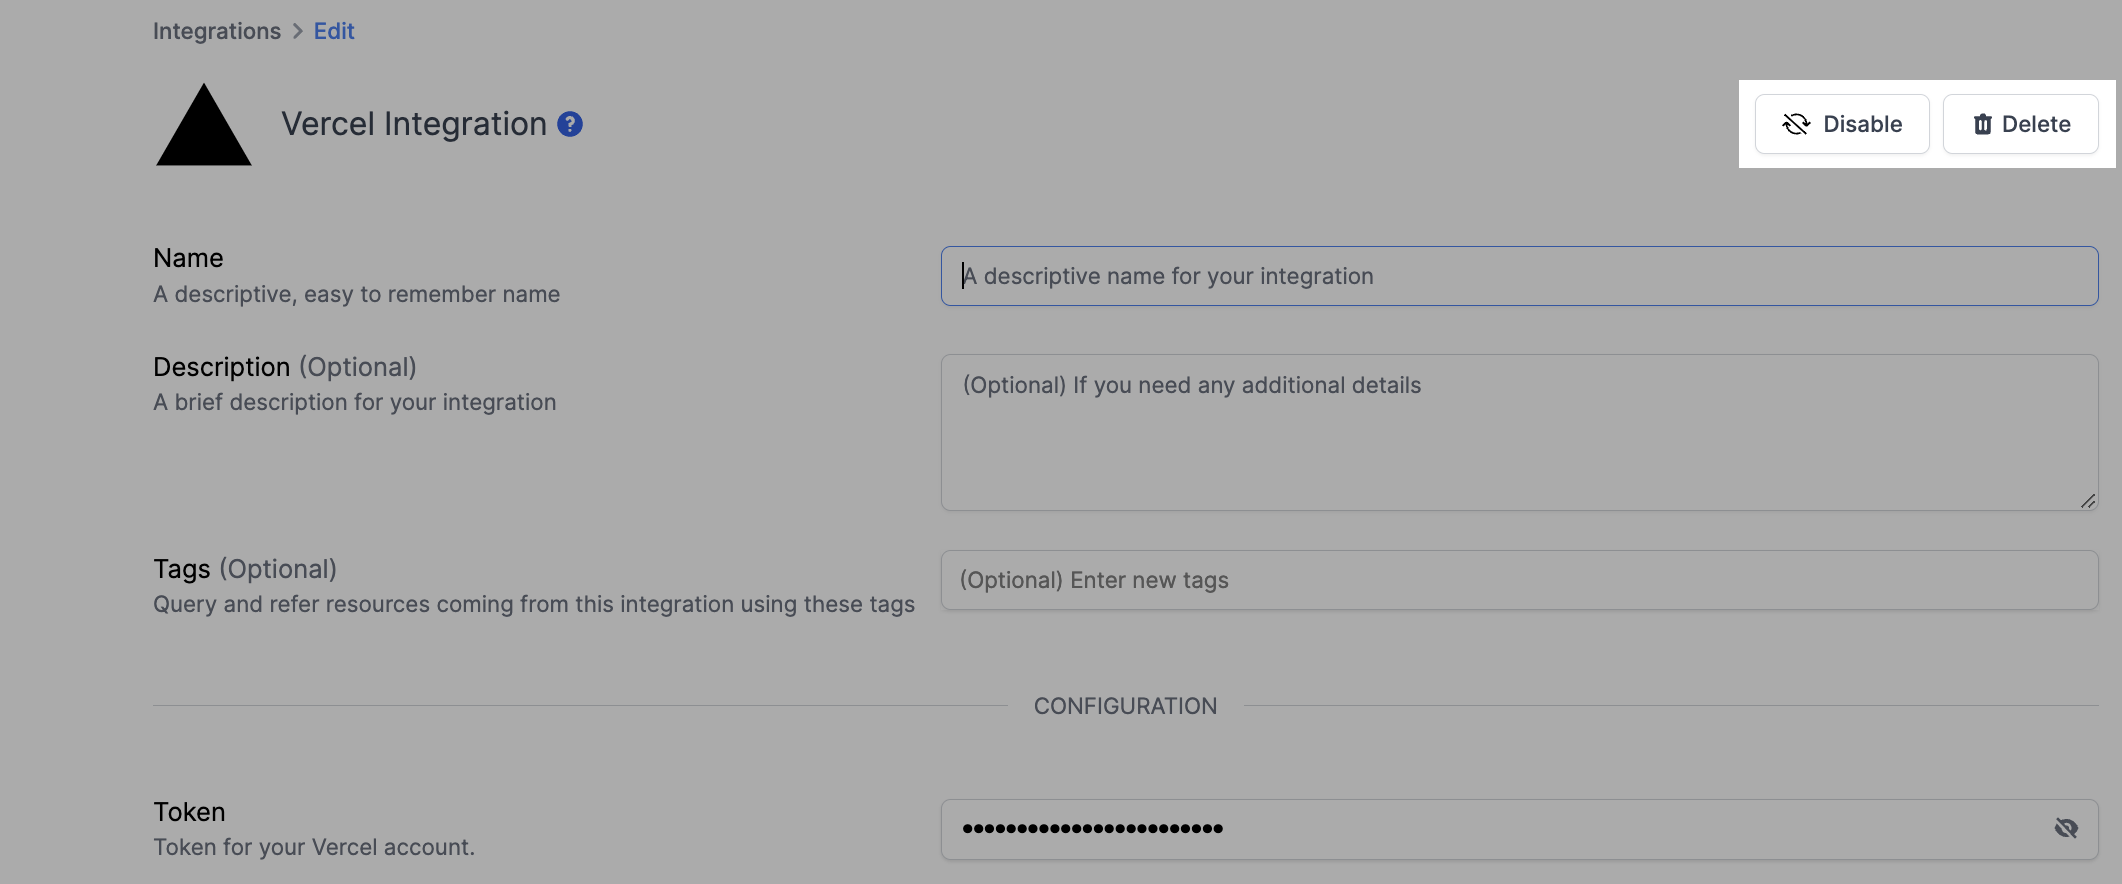
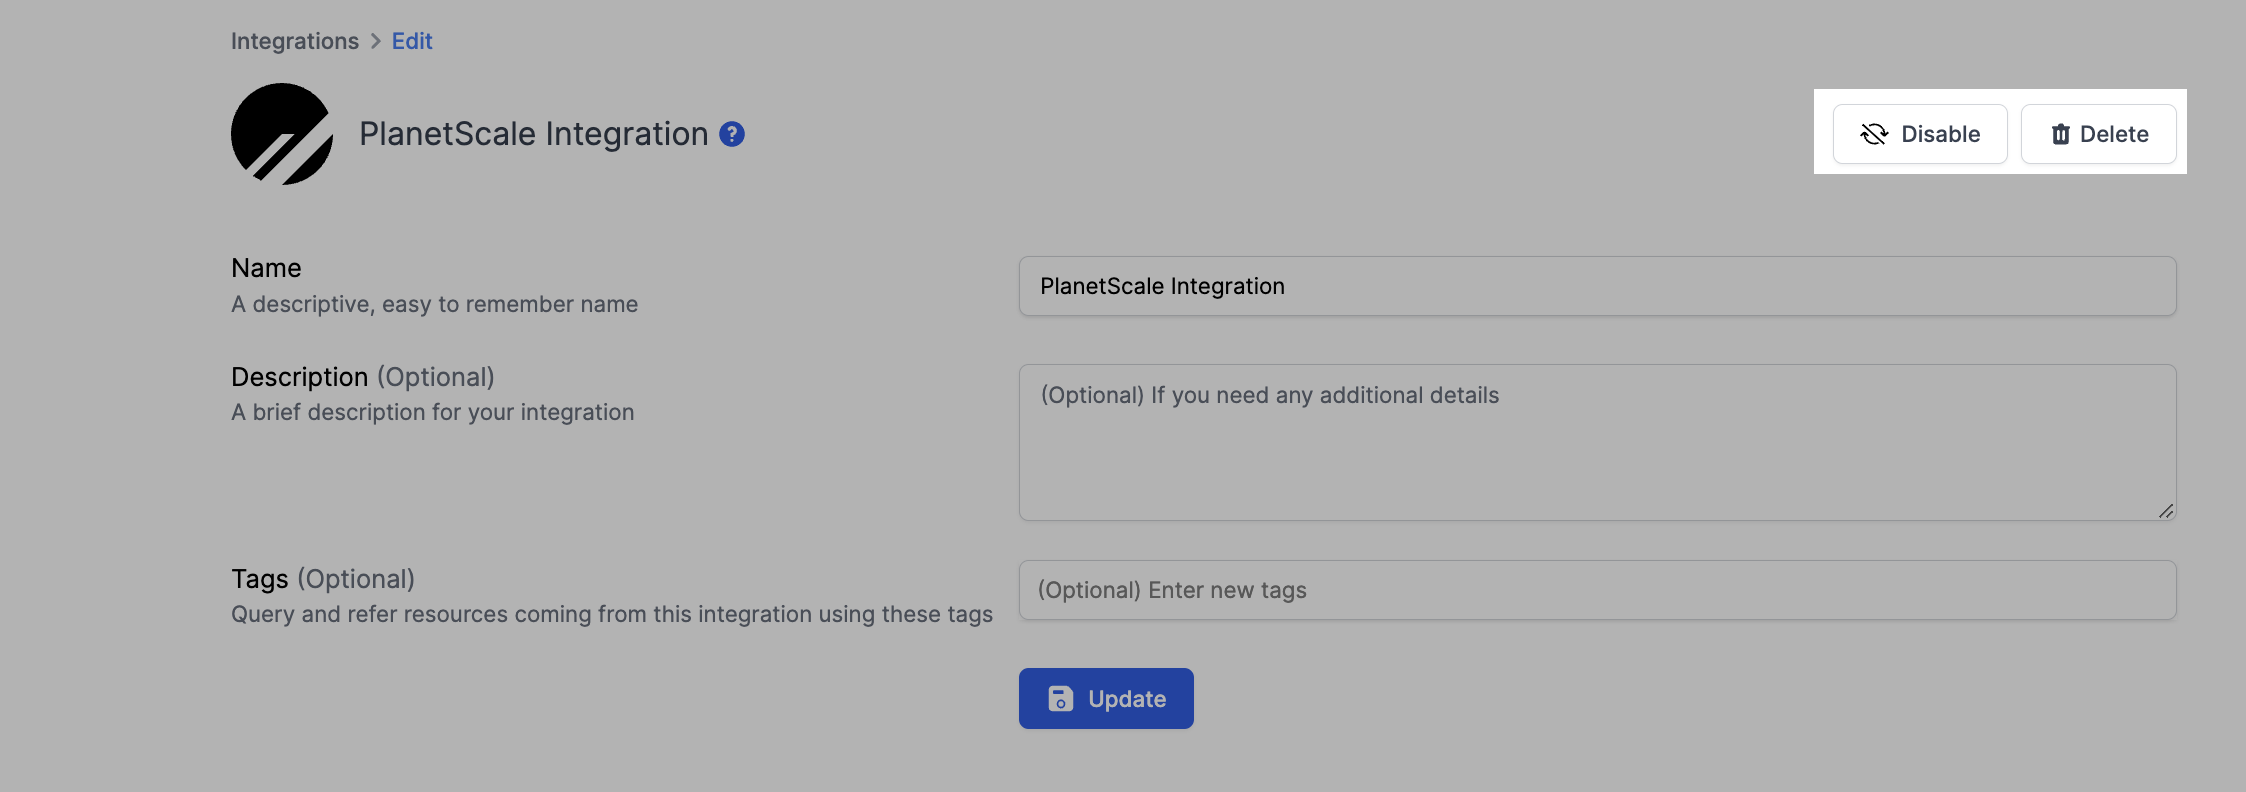
GitBook: [#194] Planetscale integration

diff --git a/integrations/planetscale-integration.md b/integrations/planetscale-integration.md
@@ -1,0 +1,62 @@
+---
+description: Guide for Resmo PlanetScale integration
+---
+
+# PlanetScale Integration
+
+## Resmo + PlanetScale Integration Fundamentals
+
+<figure><img src="../.gitbook/assets/planetscale-logo.png" alt=""><figcaption></figcaption></figure>
+
+Resmo connects to PlanetScale in one click to bring asset visibility, continuous security, and compliance into your environment.
+
+### What does Resmo offer to PlanetScale users?
+
+* Collect your directory assets like databases, organizations, and database branches from your PlanetScale account.
+* Query your PlanetScale databases, organizations, database branches, and more with SQL queries or free text searches.
+* Set up custom security rules to automate security checks.
+* Get notified of rule changes in real-time to close security gaps in time.
+
+### How does the integration work?
+
+Resmo uses API to do the initial polling and collect existing resources. Following the initial polling, it receives updates and changes in real-time through webhook and regular polling.
+
+* API polling
+* Webhook
+
+#### Available resources
+
+PlanetScale resources you can collect with the integration include branch passwords, databases, organizations, and more. See the complete list from the resource directory:
+
+{% embed url="https://docs.resmo.com/resources/planetscale" %}
+
+## Integration walkthrough
+
+### How to install
+
+1. Sign up or sign in to Resmo and navigate to your Integrations page.
+2. Click **Add Integrations** and **Add PlanetScale**.
+
+<figure><img src="../.gitbook/assets/add-planetscale.png" alt=""><figcaption></figcaption></figure>
+
+3\. Give a descriptive name to your integration and, optionally, write a description.
+
+<figure><img src="../.gitbook/assets/name-integration.png" alt=""><figcaption></figcaption></figure>
+
+4\. You'll be redirected to PlanetScale. **Accept permissions**.
+
+5\. Your PlanetScale integration is all set! Now you can start querying your PlanetScale resources!
+
+<figure><img src="../.gitbook/assets/query-planetscale-security.png" alt=""><figcaption></figcaption></figure>
+
+### How to uninstall
+
+1. Go to your Integrations page on Resmo.
+2. Click the PlanetScale integration you want to uninstall.
+3. Click the **Disable** button from the top right to temporarily disable the integration. You can enable it back later. To permanently remove the integration, click the **Delete** button instead. Note that this action cannot be undone.
+
+
+
+### Support
+
+Still have questions about the PlanetSacle integration? Contact us for further queries and troubleshooting via live chat or email us at contact@resmo.com.

diff --git a/integrations/vercel-integration.md b/integrations/vercel-integration.md
@@ -73,7 +73,7 @@ Resources you can collect with your Resmo Vercel integration include domains, ch
 1. Navigate to your Integrations page and click the Vercel integration you want to remove.
 2. To temporarily pause the integration, click the Disable button. This way, you'll be able to enable it back later. To permanently uninstall it, click the Delete button. This action cannot be undone.
 
-<figure><img src="../.gitbook/assets/delete-disable-buttons.png" alt=""><figcaption></figcaption></figure>
+<figure><img src="../.gitbook/assets/delete-disable-buttons (1).png" alt=""><figcaption></figcaption></figure>
 
 ### Support
 

diff --git a/integrations/kandji-integration.md b/integrations/kandji-integration.md
@@ -36,7 +36,7 @@ Resmo uses API to do the initial polling and collect existing resources. Followi
 
 3\. Name your Kandji integration and optionally write a description.
 
-<figure><img src="../.gitbook/assets/name-integration.png" alt=""><figcaption></figcaption></figure>
+<figure><img src="../.gitbook/assets/name-integration (1).png" alt=""><figcaption></figcaption></figure>
 
 4\. Go to your **Kandji Settings > Access.**
 

diff --git a/SUMMARY.md b/SUMMARY.md
@@ -111,6 +111,7 @@
 * [GoDaddy Integration](integrations/godaddy-integration.md)
 * [Kandji Integration](integrations/kandji-integration.md)
 * [LaunchDarkly Integration](integrations/launchdarkly-integration.md)
+* [PlanetScale Integration](integrations/planetscale-integration.md)
 
 ## Notifications
 
